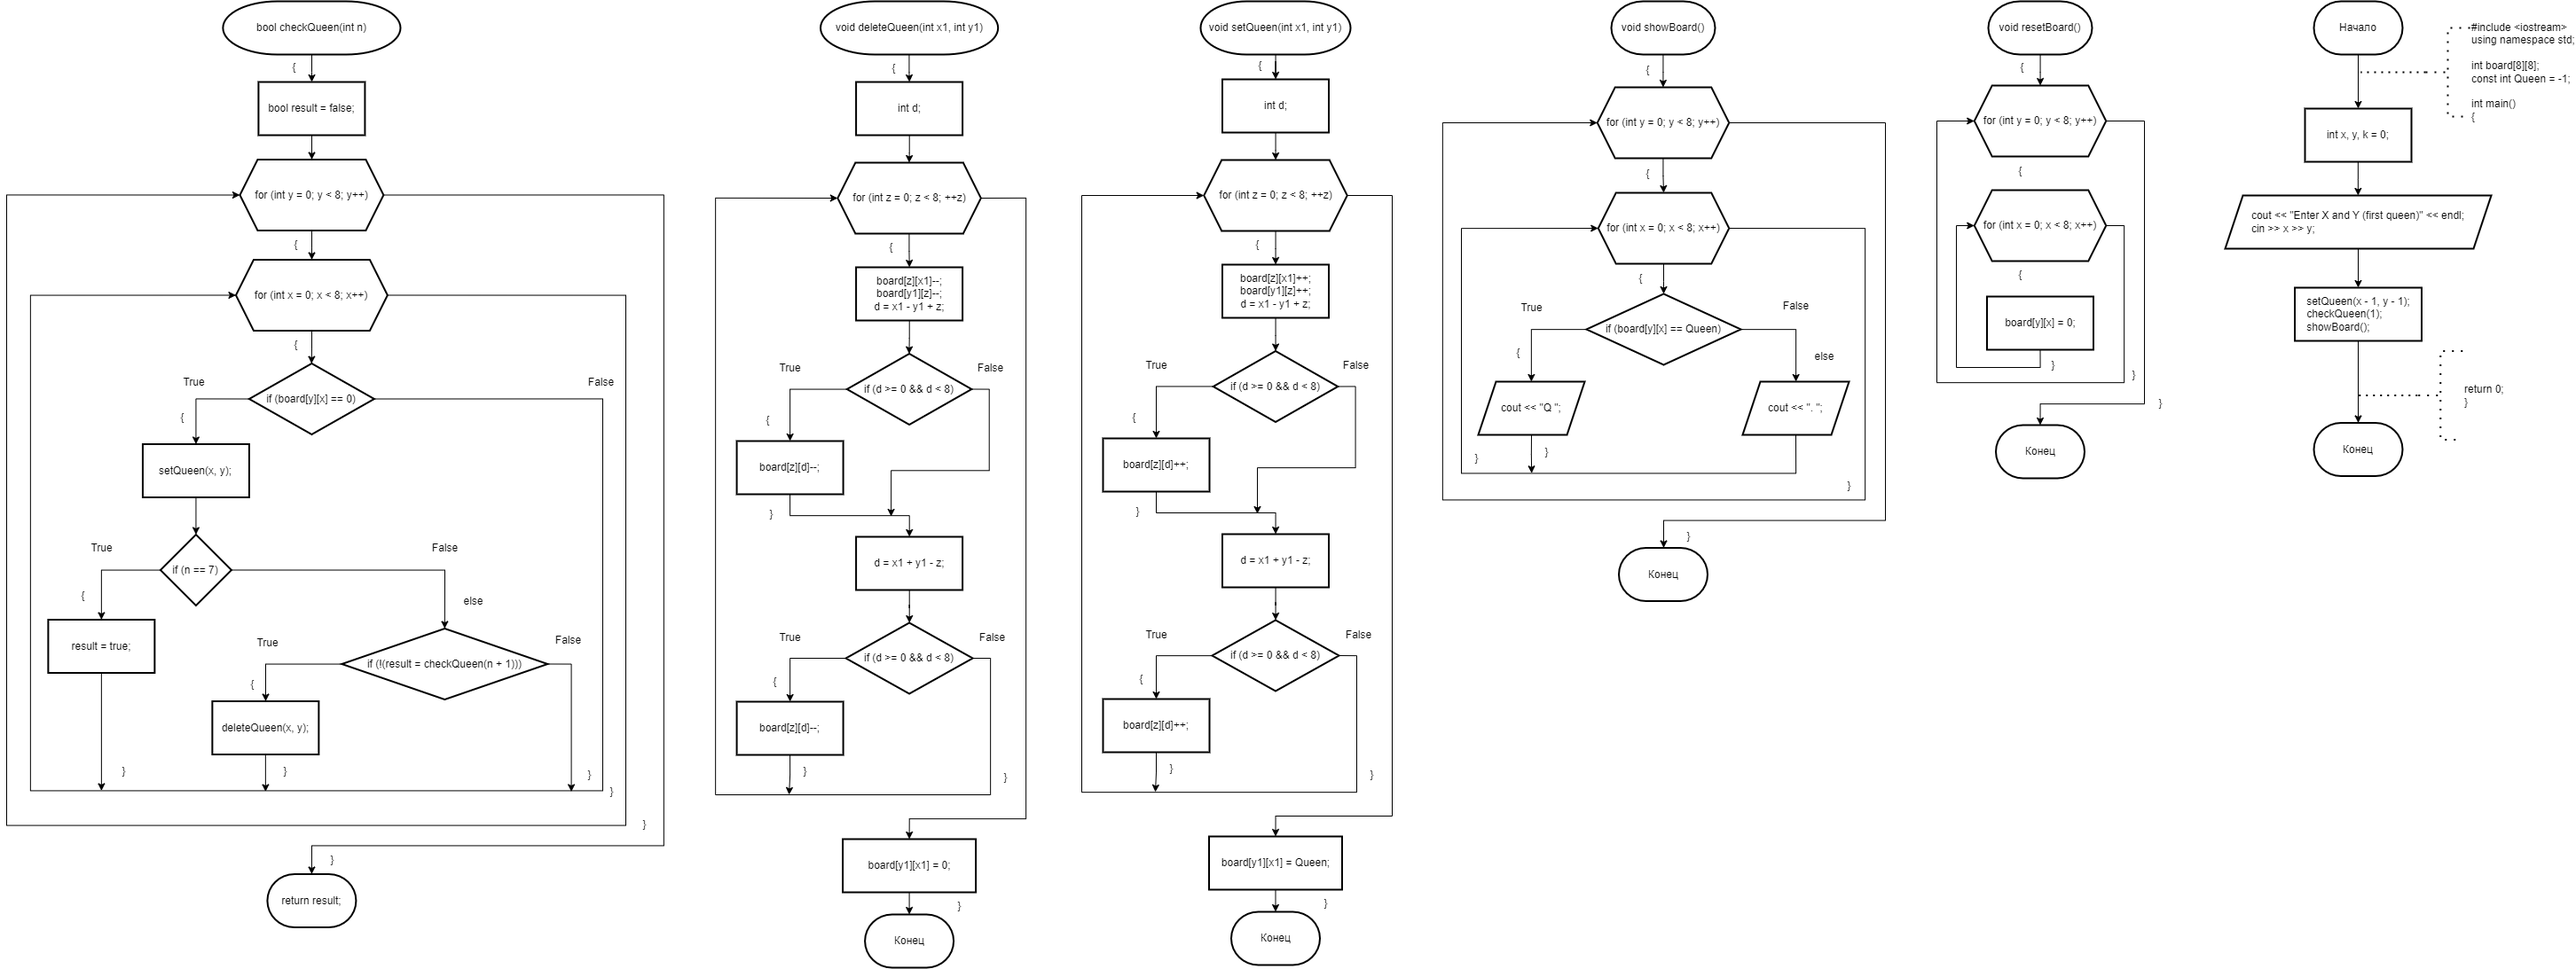
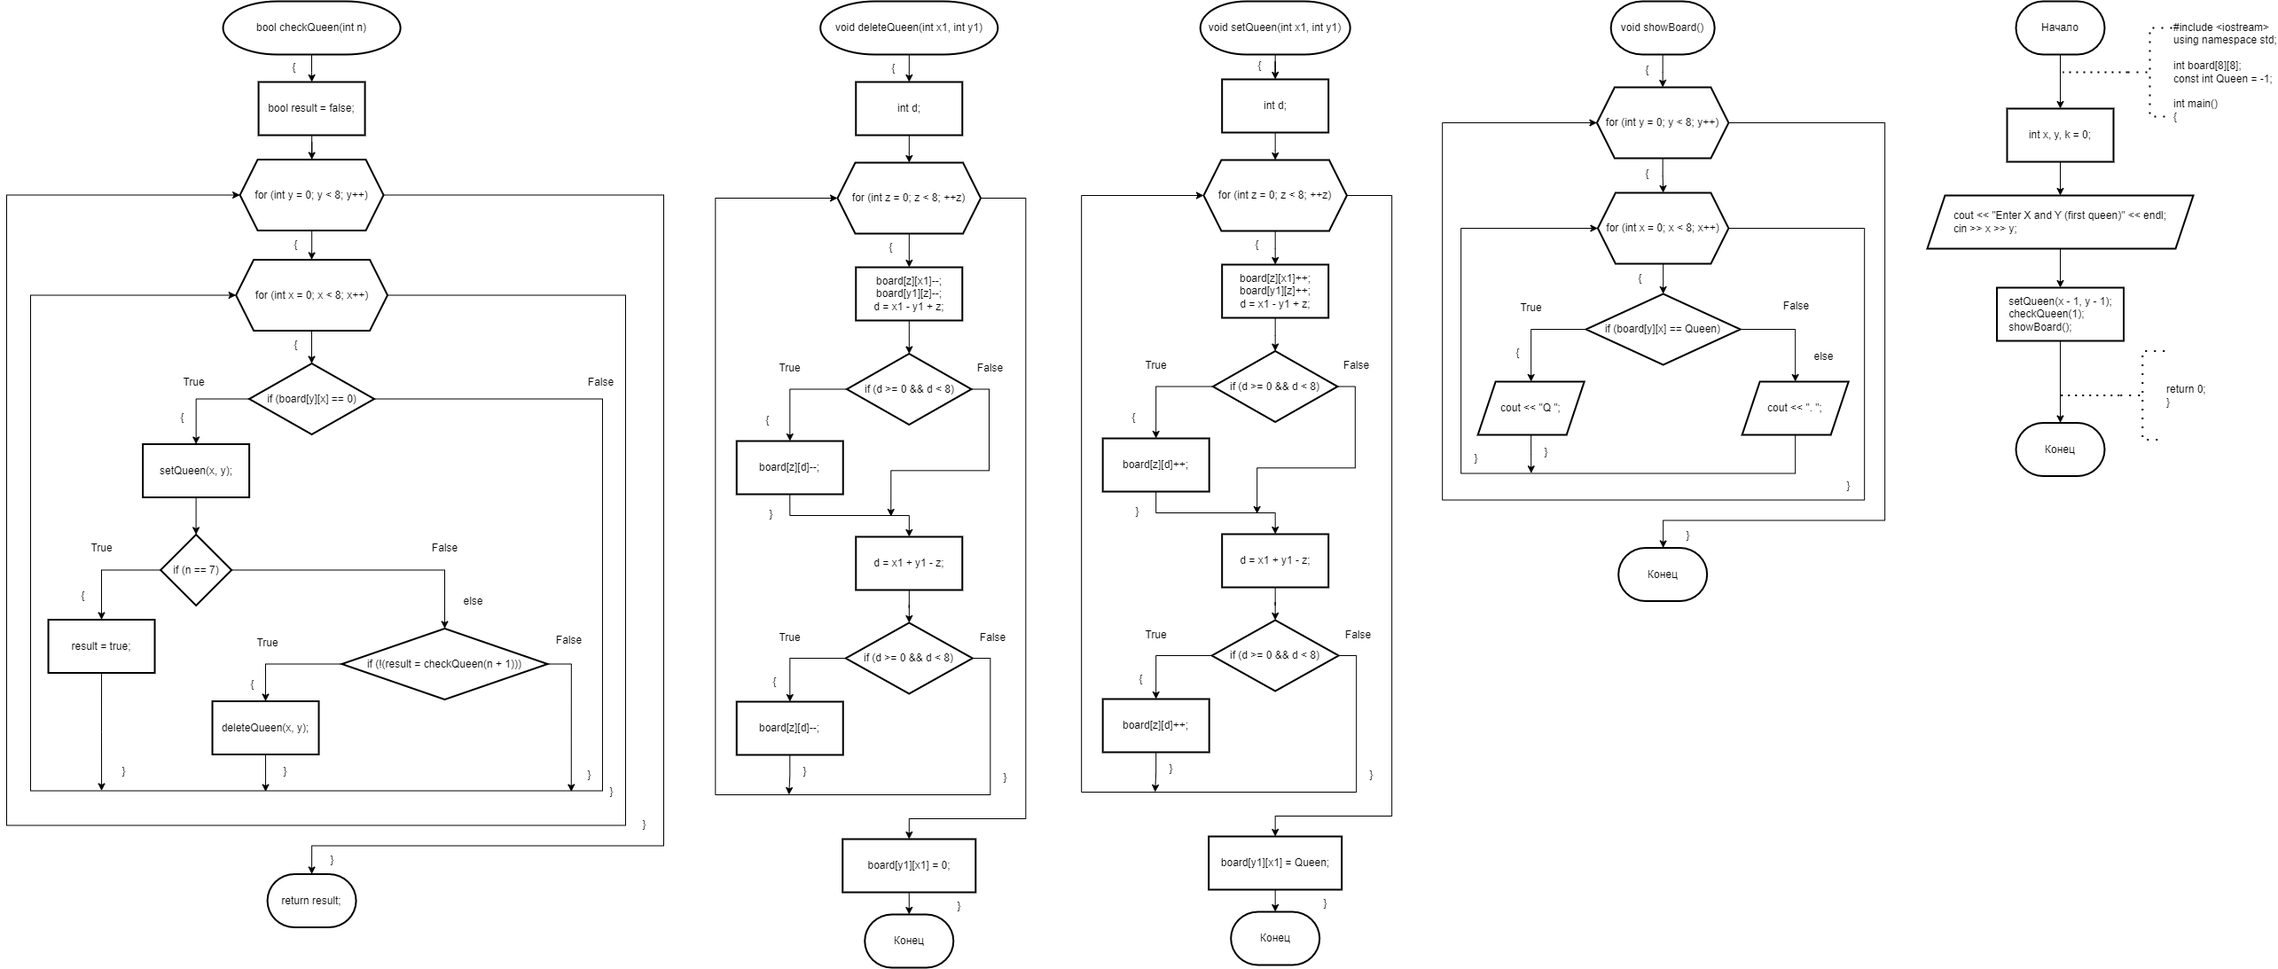
Add files via upload

diff --git a/Sem_2/recursions/8_queens/8_queens.cpp b/Sem_2/recursions/8_queens/8_queens.cpp
@@ -5,17 +5,6 @@ using namespace std;
 int board[8][8];
 const int Queen = -1;
 
-void resetBoard()
-{
-	for (int y = 0; y < 8; y++)
-	{
-		for (int x = 0; x < 8; x++)
-		{
-			board[y][x] = 0;
-		}
-	}
-}
-
 void showBoard()
 {
 	for (int y = 0; y < 8; y++)
